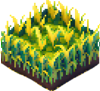
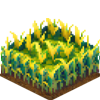
general tiles outline, some textures, tiles testing

diff --git a/main.py b/main.py
@@ -3,13 +3,18 @@ from time import sleep, time
 from pygame.locals import *
 from random import randrange
 from pygame import mixer
+import numpy as np
 
-WIDTH = 1280
-HEIGHT = 720
+WIDTH = 1800
+HEIGHT = 900
 GREEN = (147, 216, 175)
 
-TILE_WIDTH = 100
-TILE_HEIGHT = 50
+TILE_WIDTH = 72
+TILE_HEIGHT = 36
+
+#create a 25 x 25 array of random zeros and ones
+#array = np.random.randint(40, size=(12, 12))
+array = np.random.randint(2, size=(25, 25))
 
 #code to import music
 #mixer.init()
@@ -19,11 +24,28 @@ TILE_HEIGHT = 50
 
 #might need to figure out a way to stop music when game is closed
 
-def drawTile(screen, x, y, color):
-    pygame.draw.polygon(screen, color, ((x, y), (x+49, y+24), (x, y+48), (x-49, y+24)))
+def getTileLocation(tile_x, tile_y):
+    x = WIDTH / 2 + (tile_x * TILE_WIDTH / 2 - tile_y * TILE_WIDTH / 2)
+    y = (tile_y * TILE_HEIGHT / 2 + tile_x * TILE_HEIGHT / 2)
+    return (x, y)
+
+def drawTile(screen, tile_x, tile_y, color):
+    x, y = getTileLocation(tile_x, tile_y)
+    pygame.draw.polygon(screen, color, ((x, y), (x+TILE_HEIGHT-1, y+TILE_HEIGHT/2-1), (x, y+TILE_HEIGHT-2), (x-TILE_HEIGHT-1, y+TILE_HEIGHT/2-1)))
 
 def drawImageTile(screen, tile_x, tile_y, image):
-    screen.blit(image, (tile_x * TILE_WIDTH + (TILE_WIDTH / 2 if (tile_y % 2) == 0 else 0) - image.get_width() / 2, tile_y * TILE_HEIGHT / 2 - TILE_HEIGHT + 12))
+    image = pygame.transform.scale(image, (TILE_WIDTH, TILE_WIDTH))
+    x, y = getTileLocation(tile_x, tile_y)
+    x  = x - image.get_width() / 2
+    y = y - image.get_height() / 2
+    screen.blit(image, (x, y))
+
+def drawBigImageTile(screen, tile_x, tile_y, image):
+    image = pygame.transform.scale(image, (TILE_WIDTH*2, TILE_WIDTH*2))
+    x, y = getTileLocation(tile_x, tile_y)
+    x  = x - image.get_width() / 2
+    y = y - image.get_height() / 2
+    screen.blit(image, (x, y))
 
 def main():
     pygame.init()
@@ -33,19 +55,35 @@ def main():
 
     running = True
 
-    # fill the screen with tiles
-    for i in range(5, 10):
-        for j in range(5, 20):
-            #drawTile(screen, i * TILE_WIDTH + (TILE_WIDTH / 2 if (j % 2) == 0 else 0), j * TILE_HEIGHT / 2 - TILE_HEIGHT, (randrange(110, 120), randrange(210, 220), randrange(140, 150)))
-            drawImageTile(screen, i, j, pygame.image.load("corn_tile.png"))
+    #fill the screen with tiles
+    for i in range(0, 25):
+        for j in range(0, 25):
+            #drawTile(screen, i, j, (randrange(110, 120), randrange(210, 220), randrange(140, 150)))
+            drawImageTile(screen, i, j, pygame.image.load("dirt.png"))
+
+    for i in range (0,25):
+        for j in range (0,25):
+            if array[i][j] == 1:
+                drawImageTile(screen, i, j, pygame.image.load("corn_tile.png"))
+
+    # for i in range (0, 12):
+    #     for j in range (0, 12):
+    #         if array[i][j] == 1:
+    #             drawBigImageTile(screen, i*2, j*2, pygame.image.load("tree.png"))
+    #         if array[i][j] == 2:
+    #             drawBigImageTile(screen, i*2, j*2, pygame.image.load("tree2.png"))
+
+    #random generation of obstacles
+    #for i in range (x,y) where x and y are number of nonfarmable tiles wanted/desired (could make it random generated by seed?)
+        #drawImageTile(screen, RANDOM I HERE, RANDOM J HERE, pygame.image.load(OBSTACLE TILE IMAGE HERE (could be tree, rock, etc)))
 
     # draw the corn tile
     #drawImageTile(screen, 5, 5, pygame.image.load("corn_tile.png"))
 
+
     display_surface = pygame.display.get_surface()
     #display_surface.blit(pygame.transform.flip(display_surface, False, True), dest=(0, 0))
     pygame.display.flip()
-
 
     while running:
         sleep(0.1)
